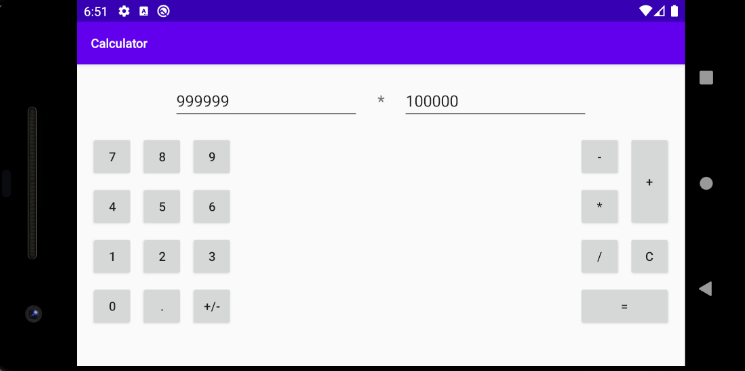
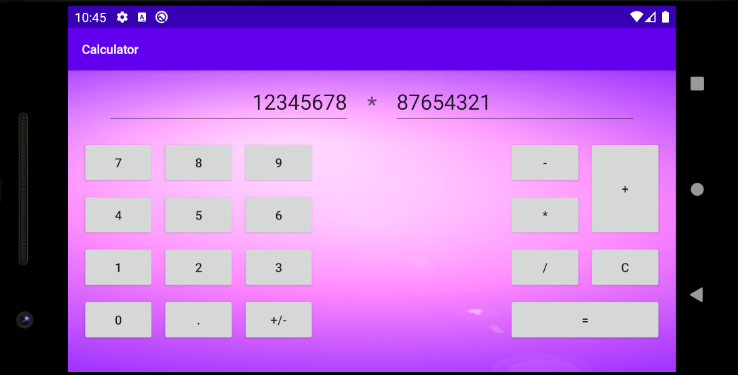
update background, made button scale of the screen size

diff --git a/app/src/main/java/com/dangproject/calculator/MainActivity.kt b/app/src/main/java/com/dangproject/calculator/MainActivity.kt
@@ -1,10 +1,14 @@
 package com.dangproject.calculator
 
 import android.os.Bundle
+import android.util.TypedValue
 import android.view.View
 import android.widget.Button
 import androidx.appcompat.app.AppCompatActivity
 import kotlinx.android.synthetic.main.activity_main.*
+import java.text.DecimalFormat
+import java.text.DecimalFormatSymbols
+import java.util.*
 
 
 private const val STATE_PENDING_OPERATION = "PendingOperation"
@@ -87,6 +91,16 @@ class MainActivity : AppCompatActivity() {
 
             }
         }
+//        val sourceTextSize : Float = result.textSize
+//        var scaleratio : Float = resources.displayMetrics.density
+//        result.measure(0,0)
+//        var resultHeight = result.measuredHeight
+//        newNumber.measure(0,0)
+//        var resultHeight2 = newNumber.measuredHeight
+//        result.setTextSize(TypedValue.COMPLEX_UNIT_SP, sourceTextSize*scaleratio)
+//        result.setText((sourceTextSize/resources.displayMetrics.density).toInt())
+//            .setTextSize(sourceTextSize/getResources().getDisplayMetrics().density);
+//        val sourceTextSize2 : Float = newNumber.textSize
 
 
     }
@@ -111,26 +125,14 @@ class MainActivity : AppCompatActivity() {
                 "+" -> operand1 = operand1!! + value
             }
         }
-        // if user input an Integer, it should show an Integer
-//        var checkInt : Int = operand1!!.toInt()
-//        var checkZero: Double = operand1!! - checkInt
-//        if (checkZero == 0.0){
-//            result.setText(checkInt.toString())
-//        } else {
-//            result.setText(operand1.toString())
-//        }
         result.setText(getStringFromRoundedDouble(operand1!!))
         newNumber.setText("")
 
     }
     private fun getStringFromRoundedDouble(tNumber : Double) : String {
-        var checkInt : Int = tNumber.toInt()
-        var checkZero: Double = tNumber - checkInt
-        return if (checkZero == 0.0) {
-            checkInt.toString()
-        } else {
-            tNumber.toString()
-        }
+        val df: DecimalFormat = DecimalFormat("0", DecimalFormatSymbols.getInstance(Locale.ENGLISH))
+        df.maximumFractionDigits = 8      // 340 = DecimalFormat.DOUBLE_FRACTION_DIGITS, but 1.2 * 3 does not show good >> should be 8
+        return df.format(tNumber).toString()
     }
 
     fun makeString(list: List<String>,joiner: String = "") : String {
